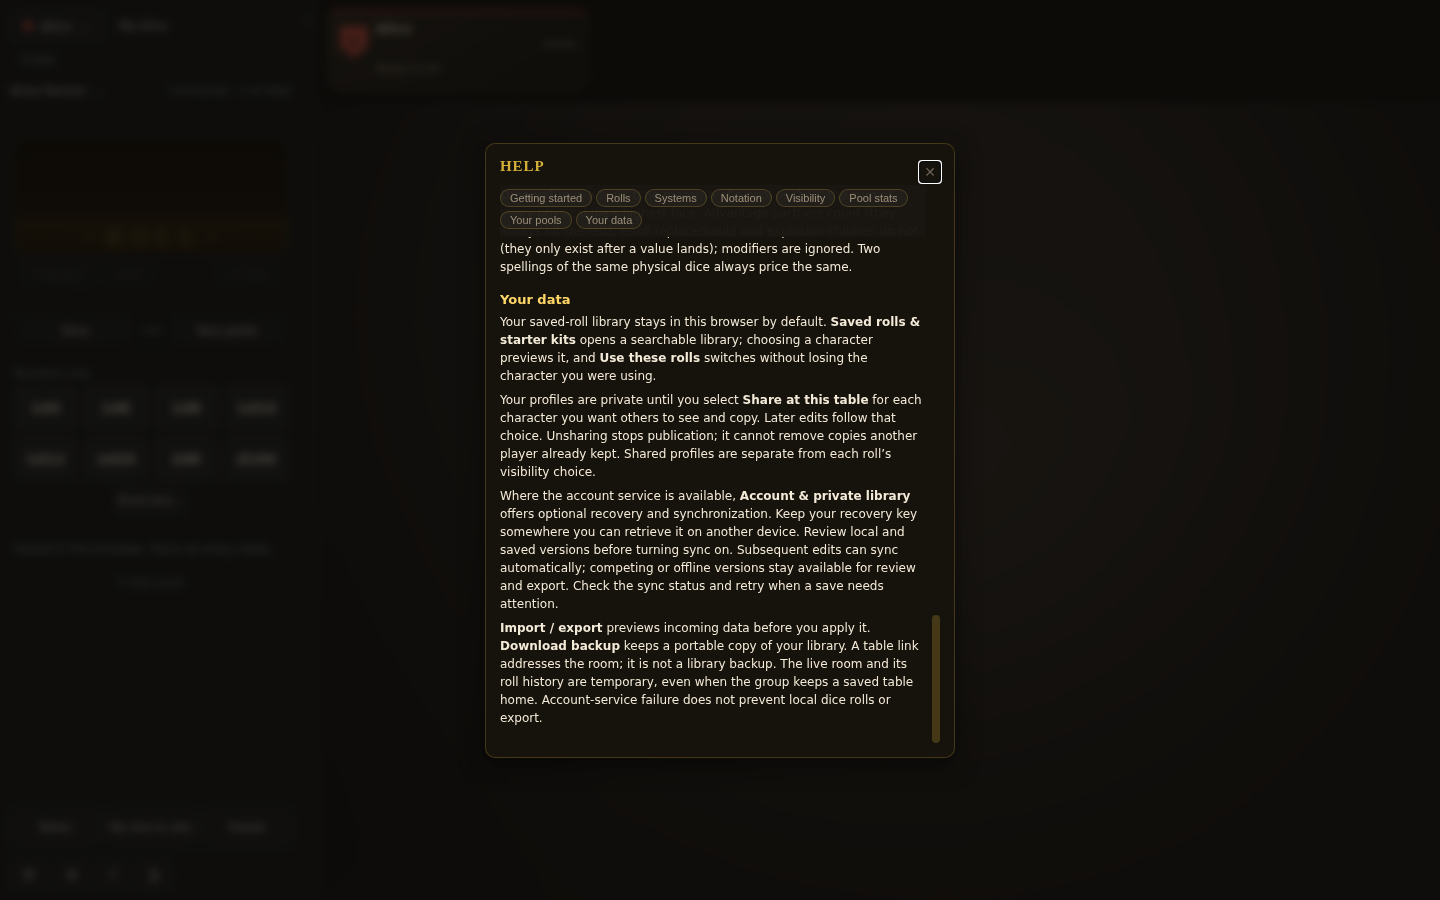
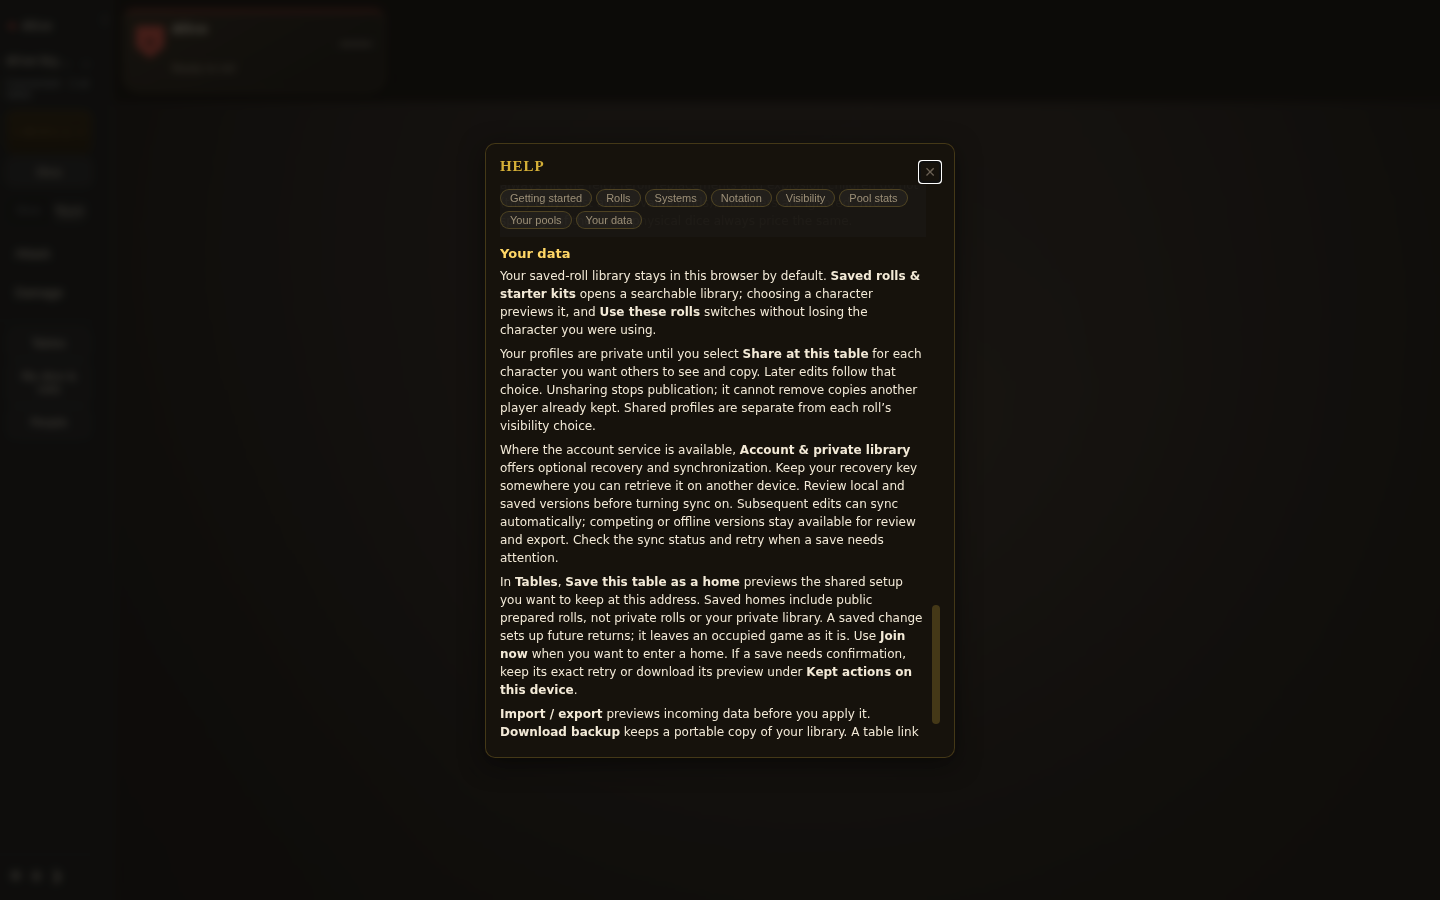
Document saved-home and presentation tasks in the composed redesign

Changed region(s): [[0.3438, 0.2489, 0.6562, 0.84], [0.2188, 0.0311, 0.2812, 0.0622], [0.0938, 0.0311, 0.125, 0.0622]]

diff --git a/index.html b/index.html
@@ -700,7 +700,7 @@ limitations under the License.
             opens the visual collection: browse, favorite, try a private practice
             throw, then choose <b>Use these dice</b>. Practice leaves the shared
             table and your chosen dice unchanged.</p>
-          <p><b>Tables</b> shows this table and recent visits. <b>My dice &amp;
+          <p><b>Tables</b> shows this table, recent visits and saved homes. <b>My dice &amp;
             rolls</b> brings together the builder, collection and saved-roll
             library. <b>People</b> shows who is here and their latest visible
             results. Returning to the table keeps your draft and unfinished turn.</p>
@@ -708,6 +708,9 @@ limitations under the License.
             and interpretation, then Apply your changes. The gear opens personal
             <b>Preferences</b>. Invite a guest with the table’s link; they can
             play without creating an account.</p>
+          <p>In Preferences, <b>Battery saver</b> reduces effects and pauses
+            animated surroundings at rest. <b>Instant results</b> skips the tumble
+            on this device; hidden rolls still need Reveal.</p>
         </section>
         <section id="help-rolls">
           <h3>Fair rolls, one table</h3>
@@ -826,6 +829,13 @@ limitations under the License.
             edits can sync automatically; competing or offline versions stay
             available for review and export. Check the sync status and retry
             when a save needs attention.</p>
+          <p>In <b>Tables</b>, <b>Save this table as a home</b> previews the
+            shared setup you want to keep at this address. Saved homes include
+            public prepared rolls, not private rolls or your private library.
+            A saved change sets up future returns; it leaves an occupied game
+            as it is. Use <b>Join now</b> when you want to enter a home. If a save
+            needs confirmation, keep its exact retry or download its preview
+            under <b>Kept actions on this device</b>.</p>
           <p><b>Import / export</b> previews incoming data before you apply it.
             <b>Download backup</b> keeps a portable copy of your library.
             A table link addresses the room; it is not a library backup.

diff --git a/docs/EXPERIENCE-REDESIGN.md b/docs/EXPERIENCE-REDESIGN.md
@@ -11,7 +11,9 @@ now delivers direct name editing and a visual dice collection. The
 [compact table-controls follow-up](SHIPPED.md#compact-table-controls-and-setup-2026-09-13)
 fits that entry into the name row and reuses the table label for shared setup,
 following his instruction to conserve the rolling area's space. The larger
-release remains in progress; its detailed design is in
+release remains in progress. Joe then authorized autonomous implementation
+through all three priorities, with agents and reviewed increments;
+[REDESIGN-PROGRESS.md](REDESIGN-PROGRESS.md) records execution. The detailed R1 design is in
 [PEOPLE-DICE-TABLES.md](PEOPLE-DICE-TABLES.md).
 
 The product direction is approved. Release boundaries and technical choices
@@ -60,11 +62,18 @@ The [turn-worker follow-up](redesign/2026-09-13-film-turns.md) now retains
 complete ordered turn/reveal/collection events and moves rethrows off-thread,
 with 24 complete first/rethrow films matching the pre-worker baseline. Towers
 and silent reconstruction retain the shared inline bake. Physical devices,
-rendering startup and Battery saver remain open. The [on-demand render
+rendering startup and remaining optional loading remain open. The [on-demand render
 loop](redesign/2026-09-13-idle-render.md) now draws zero settled frames for
 Table and all three baked designs on desktop/phone emulation (previously
 60 fps), with audio continuing independently and all 24 films unchanged.
 No physical-device battery or active-frame-rate claim is made.
+The [Battery saver](redesign/2026-09-13-battery-presentation.md) and
+[Instant results](redesign/2026-09-13-instant-results.md) preferences are now
+implemented independently. Battery keeps baked artwork and responsive 3D dice,
+reduces post effects and stops animated rest; Instant completes the same prepared
+film without early reveals. Eight composed preference/turn/privacy/fallback
+checks pass. Full remains the default; Auto is deferred until measurements can
+support an automatic choice instead of guessing a device's capability.
 
 **R2 first composition, 2026-09-13:** [player results](PLAYER-RESULTS.md) now
 keep upright names, crests and the group’s latest visible reads together. The
@@ -73,7 +82,9 @@ Table and Stone Circle, a real setup preview and inspected four-player
 desktop/phone views. The [compact arrival experiment](PLAYER-RESULTS.md#rolls-arriving-together)
 shows who is rolling, who is next, and waiting players' previously displayed
 results. It keeps sequential films and adds no scene-space cost; simultaneous
-physical playback is not implemented.
+physical playback is not implemented. Model size now follows shared zoom;
+the inherited square collision envelope still needs a round-table correction
+for stress throws. The actual GLB support probe records that open gap.
 
 For **R2**, design landmarks, interesting edges, and quiet rolling areas as
 one composition. Explore personal crests, dice pouches or trays, readable
@@ -87,7 +98,7 @@ art directions.
 
 For **R3**, Battery saver should have its own attractive presentation:
 illustrated or baked surroundings with responsive 3D dice and adaptive
-effects. Personal Auto / Full / Battery saver choices and optional instant
+effects. Personal Full / Battery saver choices and optional instant
 results serve different devices and preferences without changing shared
 values or revealing them early. Idle rendering, static shadows, pixel
 ratio, and effects are candidates for measurement; a visually richer table

diff --git a/docs/ROADMAP.md b/docs/ROADMAP.md
@@ -190,9 +190,9 @@ below includes the subsequently composed work; the full release remains open. Th
 
 | Key | Current priority | Next deliverable | Status |
 | --- | --- | --- | --- |
-| **R1** | People, personal dice, and persistent tables | Finish saved-home management and People contacts/inbox/presence; then composed help and return-journey proof | Navigation, gallery/practice, focused library, Quick dice, explicit sharing and recoverable private library implemented; durable home and social APIs tested; service UI still in progress |
-| **R2** | Redesign the complete shared playing surface | Composed desktop/phone play and actual-device observation | Three baked table designs, live setup preview, persistent group results, full-width phone turns and compact queued-arrival presentation implemented |
-| **R3** | Make lightweight play a core feature | Battery saver, optional instant results and remaining optional-module loading; then device measurements | Compressed delivery, dice-face atlases, exact first/rethrow worker films and zero idle rendering implemented and measured on the verified desktop GPU |
+| **R1** | People, personal dice, and persistent tables | Finish People contacts/inbox/presence; then composed help and return-journey proof | Navigation, gallery/practice, focused library, Quick dice, explicit sharing and recoverable private library implemented; saved-home management and social/presence APIs tested; People UI still in progress |
+| **R2** | Redesign the complete shared playing surface | Correct the inherited square collision area for round tables; composed desktop/phone play and actual-device observation | Three baked table designs, live setup preview, persistent group results, full-width phone turns and compact queued-arrival presentation implemented |
+| **R3** | Make lightweight play a core feature | Finish remaining optional-module loading; then device measurements | Compressed delivery, face atlases, exact worker films, zero idle rendering, Battery saver and Instant results implemented; desktop measurements recorded |
 
 This is not a waterfall: R2's phone structure informs R1-A, and bounded R3
 improvements can proceed while R1 develops. Correctness fixes remain

diff --git a/docs/REDESIGN-PROGRESS.md b/docs/REDESIGN-PROGRESS.md
@@ -115,3 +115,32 @@ cherry-picks. Before updating the main checkout, its untracked initial service
 draft is preserved at `docs/handoff/2026-09-13-durable-service-initial-draft.md`.
 The maintained design remains `docs/DURABLE-SERVICE-DESIGN.md`. No production
 deployment or preview-port process change accompanies this checkpoint.
+
+## Saved-home and presentation checkpoint
+
+`9c7a176` adds saved-home cards, public capture, retained-version comparison,
+exact durable retries and deliberate Join. Three composed actual-app cases pass,
+including clean recovery after restart without a library repush. A review
+follow-up is tightening close-during-save and explicit refused-copy cleanup.
+`c637f7b` adds opt-in expiring presence; five presence tests and the independent
+browser invitation/return proof pass. People UI is now the active R1 work.
+
+Battery saver (`06eb3d8`) and Instant results (`6794d8b`) are integrated.
+All eight composed preference/Instant cases pass. The phone fixture measures
+actual viewport fit as preferences grow; the owner's subsequent hidden-library
+selector fix and Dice launcher placement are composed as `639effb`.
+`9b975e8` adds a validated `paused` maintenance mode and concrete operating plan;
+all three composed configuration/pause/restore checks pass. Cloud resources and
+production traffic remain unchanged.
+
+`1a20aa0` makes each baked table follow shared size. Six design/zoom checks pass
+and all 27 sampled films equal the unchanged baseline. Actual support rays
+exposed the remaining square-collision/round-art mismatch on stress throws;
+that is active R2 work. Optional scenery loading is the active R3 slice.
+Main's later owner commit `cd69c20` is preserved in the merge ancestry, including
+its plain-copy and roll-control placement instructions in AGENTS.md.
+
+The composed owner controls, workspaces, touch targets and rail pass together
+(7/7). The actual desktop/phone launcher and expanded Preferences were inspected;
+help now explains saved-home capture and personal Battery/Instant behavior.
+Both scripted visual passes complete without browser errors.

diff --git a/docs/WORKSPACES.md b/docs/WORKSPACES.md
@@ -6,7 +6,8 @@ Shipped slice of R1-A/B and R2, 2026-09-13. This implements the approved
 economical persistent controls and generous opened tasks.
 
 Tables, My dice & rolls, and People open from a compact navigation row. Tables
-shows the active table and this browser’s recents. Browsing it never leaves a
+shows the active table, optional saved-home cards and this browser’s recents.
+Capture/retained-version comparison expands into a focused task. Browsing it never leaves a
 room; only an explicit Go or completed New table action navigates. People
 shows the live roster, each person’s latest result from this viewer’s redacted
 history, shared-roll browsing, and the existing invite link/share action.
@@ -20,8 +21,8 @@ returns that same node when closed. Saved rolls & starter kits opens the
 [focused library](UX.md#focused-library-workspace-2026-09-13), after restoring
 the builder. The full task owns its search, publication choices and import
 preview; it keeps the original library DOM and state. Gallery, favorites, and
-practice remain the existing gallery’s responsibility. Name/Dice, table
-setup, and the Preferences gear keep their compact entry points.
+practice remain the existing gallery’s responsibility. Identity, Dice beside the roll controls, table setup, and the Preferences gear
+keep their compact entry points.
 
 The first 390×844 phone slice gave the scene 390×550, starting at 68px.
 [Persistent results](PLAYER-RESULTS.md) now reserve a top band: four players

diff --git a/docs/GOALPOST.md b/docs/GOALPOST.md
@@ -21,7 +21,7 @@ durable storage those features require. This revises the former “no access
 control, ever” and “server holds no durable state” mechanisms explicitly;
 equal participation in live play, private rolls, and safe capture remain
 promises. The direction is approved; local durable services and account/library
-workflows are implemented, with saved-home/social UI and deployment still in
+workflows and saved-home management are implemented, with People UI and deployment still in
 progress.*
 
 ## What this is
